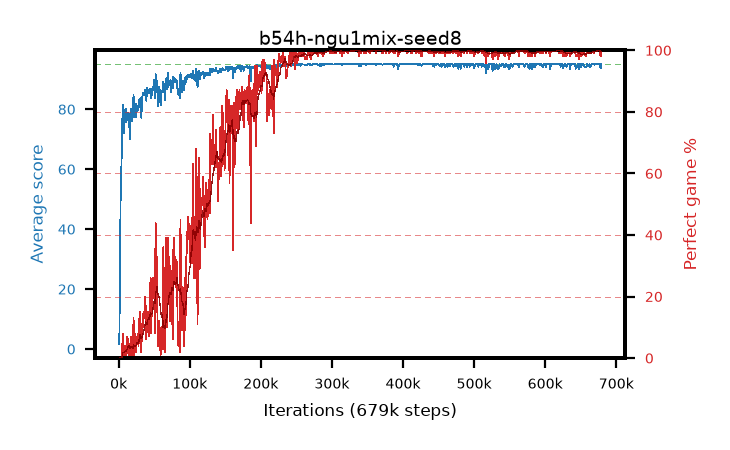
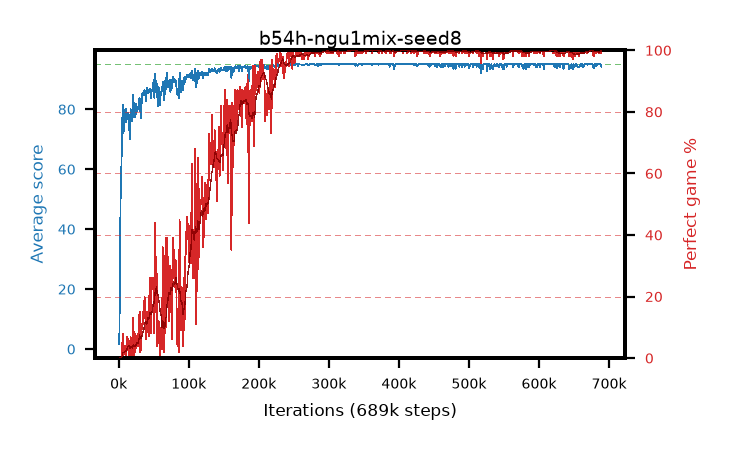
live pictures of 4 arm(s)

diff --git a/results/b54f-ngu1mix-seed6/b54f-ngu1mix-seed6.md b/results/b54f-ngu1mix-seed6/b54f-ngu1mix-seed6.md
@@ -1,6 +1,6 @@
 # b54f-ngu1mix-seed6
 
-step **679,000** · 679 evals · trailing **94.7** · peak **94.97** @342,000 · sef **84.5** · best30 **99.8** @342,000
+step **689,000** · 689 evals · trailing **94.74** · peak **94.97** @342,000 · sef **84.8** · best30 **99.8** @342,000
 
 ## Config
 
@@ -80,15 +80,15 @@ step **679,000** · 679 evals · trailing **94.7** · peak **94.97** @342,000 ·
 | 2000 | 34.39 | 18.04 | 1.0 | 64.0 | 29.959 | 0.0 | 0.4 |
 | 3000 | 43.5 | 26.53 | 14.0 | 95.0 | 39.392 | 1.0 | 0.4 |
 | ... | ... | ... | ... | ... | ... | ... | ... |
-| 668000 | 95.0 | 94.54 | 95.0 | 95.0 | 193.77 | 100.0 | 0.4 |
-| 669000 | 95.0 | 94.56 | 95.0 | 95.0 | 193.765 | 100.0 | 0.4 |
-| 670000 | 95.0 | 94.56 | 95.0 | 95.0 | 193.774 | 100.0 | 0.4 |
-| 671000 | 95.0 | 94.61 | 95.0 | 95.0 | 193.773 | 100.0 | 0.4 |
-| 672000 | 95.0 | 94.61 | 95.0 | 95.0 | 193.774 | 100.0 | 0.4 |
-| 673000 | 95.0 | 94.66 | 95.0 | 95.0 | 193.764 | 100.0 | 0.4 |
-| 674000 | 94.17 | 94.63 | 12.0 | 95.0 | 191.905 | 99.0 | 0.4 |
-| 675000 | 93.45 | 94.66 | 14.0 | 95.0 | 190.145 | 98.0 | 0.4 |
-| 676000 | 94.22 | 94.66 | 17.0 | 95.0 | 191.953 | 99.0 | 0.4 |
-| 677000 | 95.0 | 94.66 | 95.0 | 95.0 | 193.781 | 100.0 | 0.4 |
 | 678000 | 95.0 | 94.7 | 95.0 | 95.0 | 193.773 | 100.0 | 0.4 |
 | 679000 | 95.0 | 94.7 | 95.0 | 95.0 | 193.77 | 100.0 | 0.4 |
+| 680000 | 94.17 | 94.72 | 12.0 | 95.0 | 191.91 | 99.0 | 0.4 |
+| 681000 | 94.94 | 94.72 | 89.0 | 95.0 | 192.718 | 99.0 | 0.4 |
+| 682000 | 95.0 | 94.72 | 95.0 | 95.0 | 193.781 | 100.0 | 0.4 |
+| 683000 | 94.27 | 94.69 | 22.0 | 95.0 | 192.007 | 99.0 | 0.4 |
+| 684000 | 94.32 | 94.67 | 27.0 | 95.0 | 192.057 | 99.0 | 0.4 |
+| 685000 | 95.0 | 94.67 | 95.0 | 95.0 | 193.774 | 100.0 | 0.4 |
+| 686000 | 95.0 | 94.67 | 95.0 | 95.0 | 193.779 | 100.0 | 0.4 |
+| 687000 | 95.0 | 94.72 | 95.0 | 95.0 | 193.77 | 100.0 | 0.4 |
+| 688000 | 94.24 | 94.7 | 19.0 | 95.0 | 191.977 | 99.0 | 0.4 |
+| 689000 | 95.0 | 94.74 | 95.0 | 95.0 | 193.783 | 100.0 | 0.4 |
